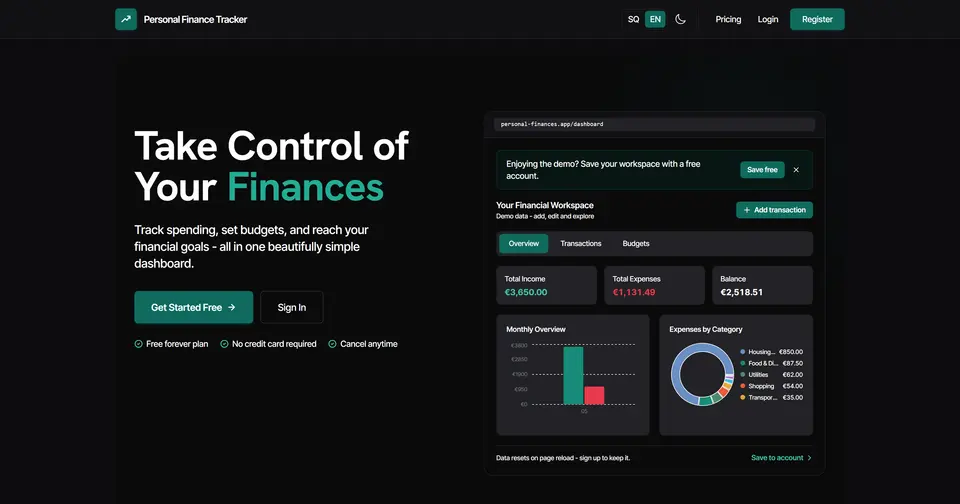
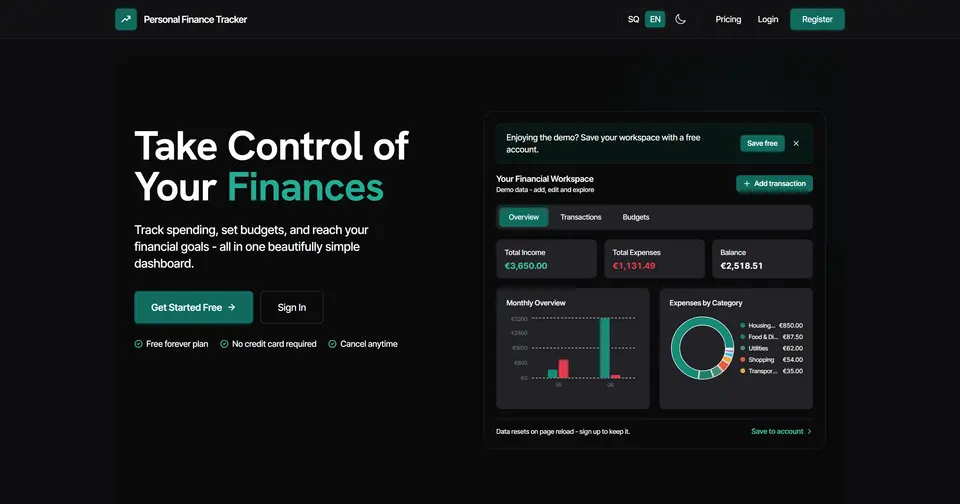
update: enhance certification card layout and image styling

Changed region(s): [[0.5, 0.2083, 0.8438, 0.8631], [0.5, 0.8929, 0.6562, 0.9226], [0.7812, 0.8929, 0.8438, 0.9226]]

diff --git a/portofolio/src/styles/main.css b/portofolio/src/styles/main.css
@@ -1881,8 +1881,9 @@ a:hover {
   border-radius: var(--radius);
   padding: 1.5rem;
   display: flex;
-  align-items: center;
-  gap: 1.25rem;
+  flex-direction: column;
+  align-items: stretch;
+  gap: 1.5rem;
   transition: var(--transition-slow);
   flex: 1;
   min-width: 300px;
@@ -1893,10 +1894,11 @@ a:hover {
 }
 
 .certification-card img {
-  width: 80px;
+  width: 100%;
   height: auto;
-  border-radius: 8px;
-  flex-shrink: 0;
+  border-radius: 10px;
+  background: #fff;
+  display: block;
 }
 
 .cert-info {
@@ -1934,11 +1936,7 @@ a:hover {
 
 @media (max-width: 600px) {
   .certification-card {
-    flex-direction: column;
-    text-align: center;
-  }
-  .certification-card img {
-    width: 100px;
+    padding: 1rem;
   }
 }
 
